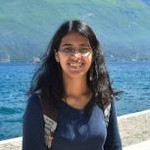
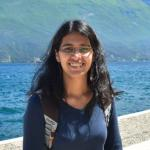
solano

diff --git a/students/_posts/2016-08-18-solano_correa.md b/students/_posts/2016-08-18-solano_correa.md
@@ -6,13 +6,13 @@ name: Yady Tatiana
 university: University of Trento
 date: 18/08/2016
 aboutme: 
-from: 
+from: Colombia
 research_topic: 
 subtitle: 
-advisor: 
-keywords: 
-website: 
-img: no_picture.jpg
+advisor: Francesca Bovolo
+keywords: Image Processing Pattern recognition Remote sensing image analysis 
+website: https://rsde.fbk.eu/people/profile/solano 
+img: solano.jpg
 thumbnail: no_picture_thumb.jpg
 alt: Yady Tatiana Solano Correa
 modal-id: stud52
